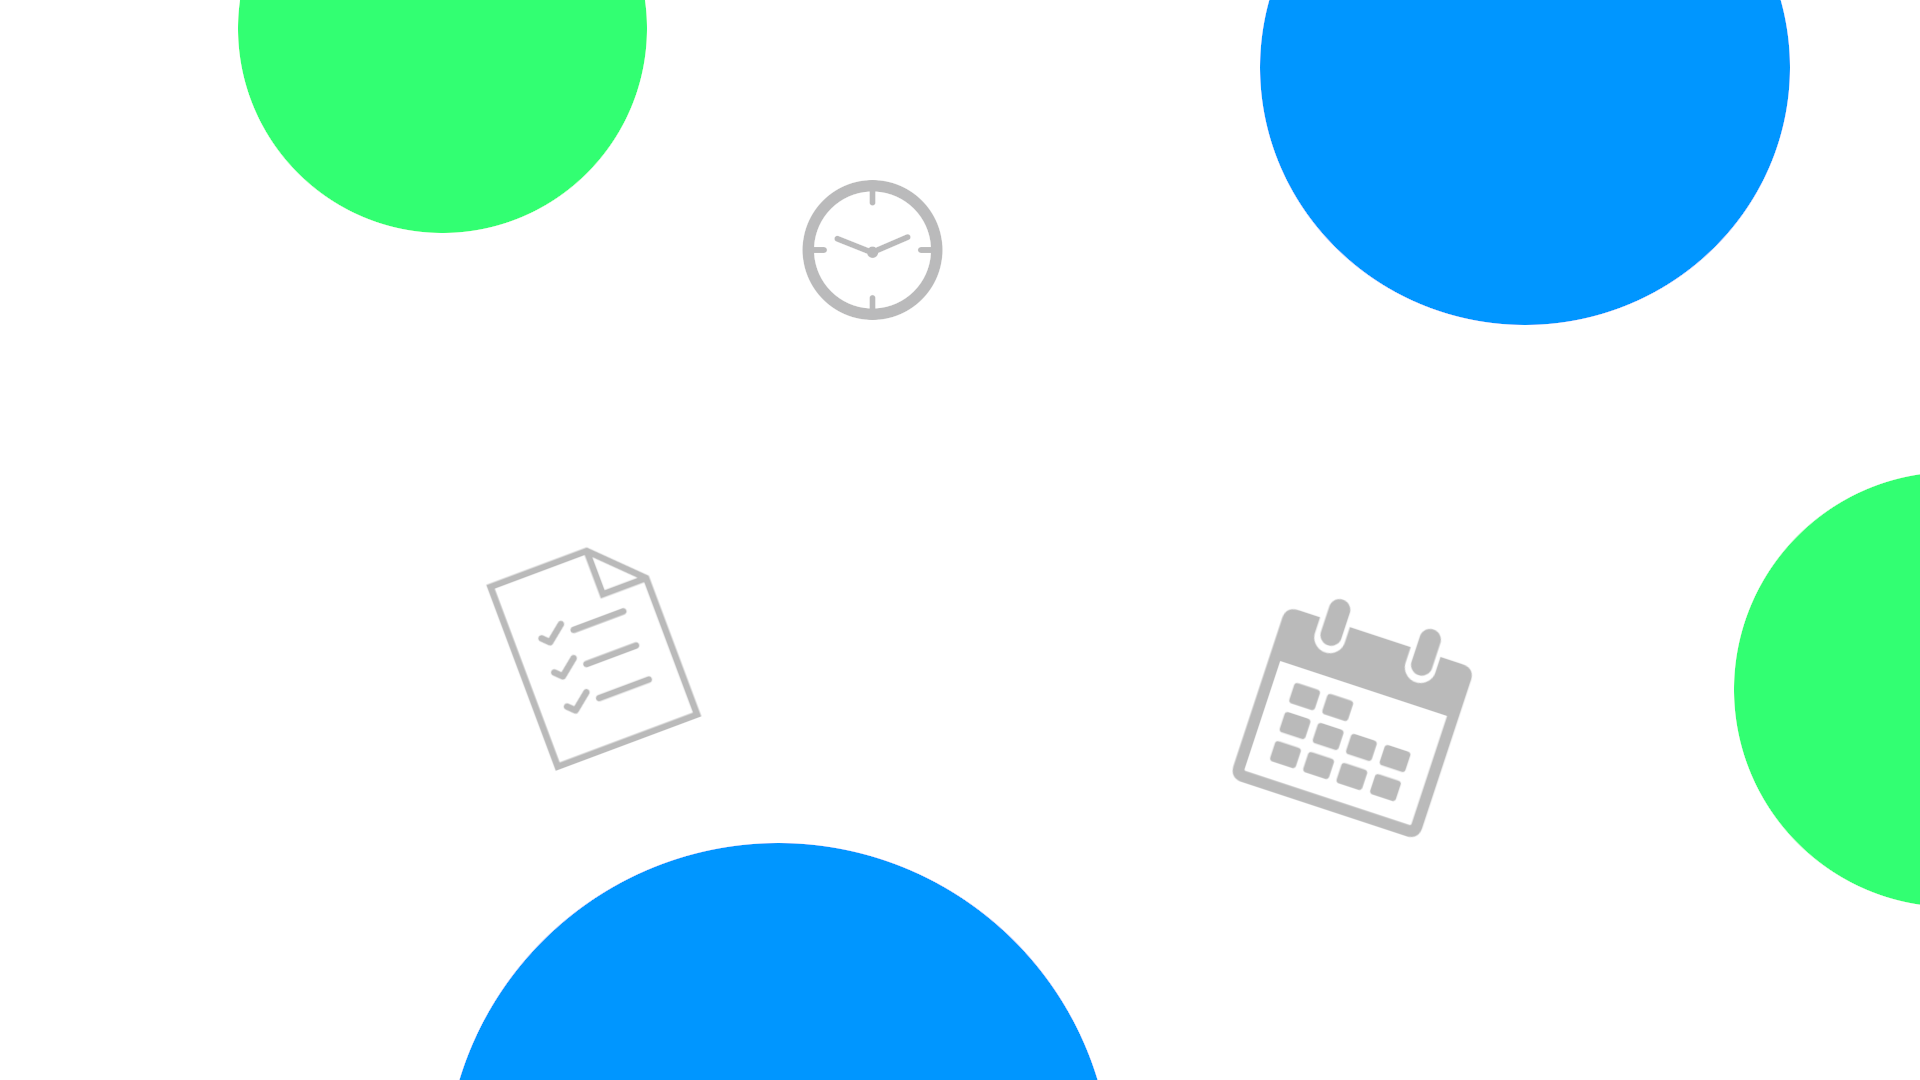
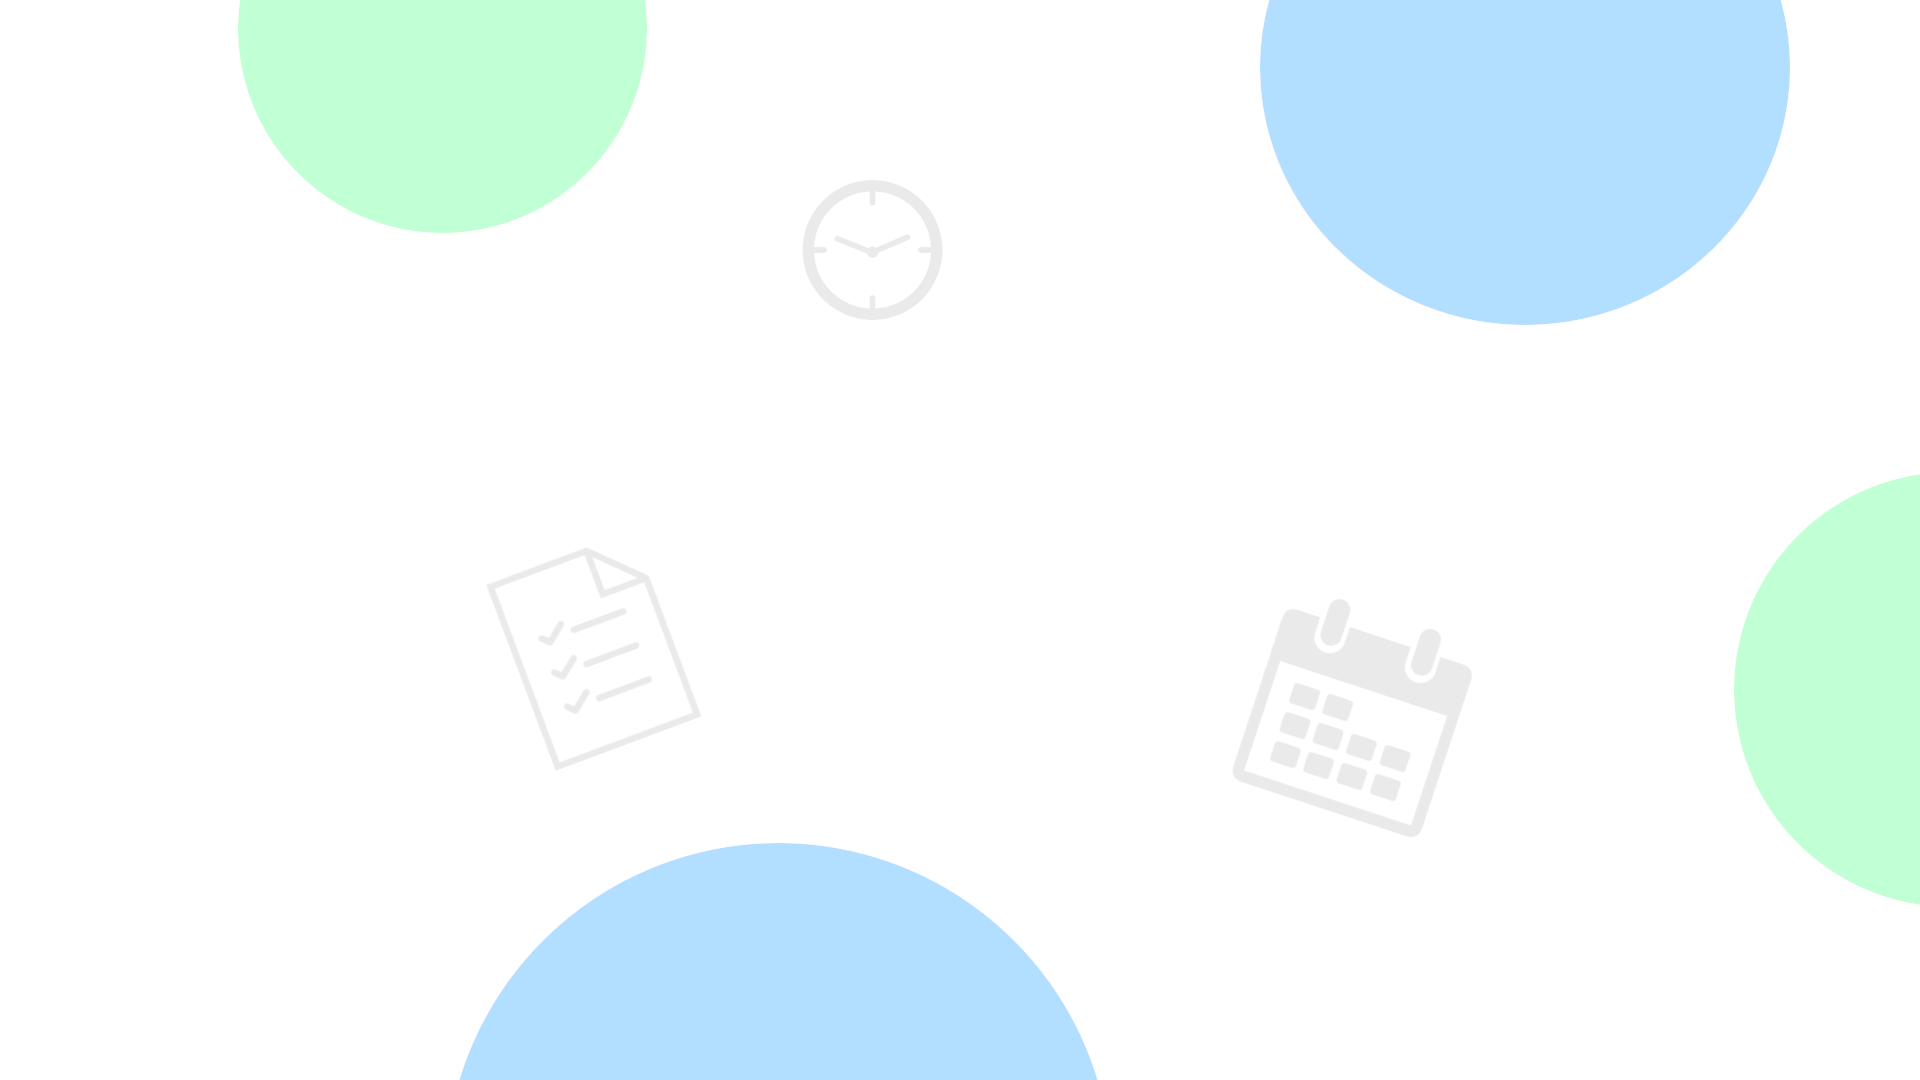
Layout savings

diff --git a/src/app/savings/savings-expenses/savings-expenses.component.html b/src/app/savings/savings-expenses/savings-expenses.component.html
@@ -19,27 +19,36 @@
   <button class="btn btn-primary button-add">Zapisz</button>
 </form>
 
-<div *ngIf="expensesArray.length > 0">
+<div *ngIf="expensesArray.length > 0" style="margin-top:12px">
     <table class="mt-3">
       <tr>
         <th>Wydatek</th>
         <th>Kategoria</th>
         <th>Wartość</th>
-        <th></th>
       </tr>
+    </table>
+  <div class="mt3table">
+    <table class="mt-3">
       <tr *ngFor="let expense of expensesArray">
         <td>{{ expense.expName }}</td>
         <td>{{ expense.expCategory }}</td>
         <td>{{ expense.expAmount }} zł</td>
         <td><a href="javascript:void(0)" (click)="removeExpense(expense.id)">Usuń</a></td>
       </tr>
-      <tr>
-        <td><b>Razem</b></td>
-        <td><b>{{ totalExpenses }} zł</b></td>
-        <td></td>
-      </tr>
     </table>
+  </div>
+  <table>
+    <tr>
+      <td><b>Razem</b></td>
+      <td><b>{{ totalExpenses }} zł</b></td>
+    </tr>
+  </table>
 </div>
-<google-chart [data]="myData" [type]="myType" [columns]="myColumns" [title]="myTitle">
-</google-chart>
+
+<div class="position">
+  <google-chart [data]="myData" [type]="myType" [columns]="myColumns" [title]="myTitle" style="margin-top:12px;">
+  </google-chart>
+</div>
+
+
 

diff --git a/src/app/savings/savings-revenue/savings-revenue.component.html b/src/app/savings/savings-revenue/savings-revenue.component.html
@@ -1,4 +1,4 @@
-<div>
+
   <form [formGroup]="revenueForm">
     <div class="form-block">
       <label>Nazwa</label>
@@ -13,23 +13,26 @@
     <button (click)="addRevenue(revenueForm.value)" class="btn btn-primary button-add">Zapisz</button>
   </form>
 
-  <div *ngIf="revenueArray.length > 0">
-    <table class="mt-3">
+  <div *ngIf="revenueArray.length > 0"  style="margin-top:83px">
+    <table>
       <tr>
         <th>Przychód</th>
         <th>Wartość</th>
-        <th></th>
       </tr>
+    </table>
+  <div class="mt3table">
+    <table class="mt-3">
       <tr *ngFor="let revenue of revenueArray">
         <td>{{ revenue.revName }}</td>
         <td>{{ revenue.revAmount }} zł</td>
         <td><a href="javascript:void(0)" (click)="removeRevenue(revenue.id)">Usuń</a></td>
       </tr>
+    </table>
+  </div>
+    <table>
       <tr>
         <td><b>Razem</b></td>
         <td><b>{{ totalRevenue }} zł</b></td>
-        <td></td>
       </tr>
     </table>
   </div>
-</div>

diff --git a/src/app/savings/savings.component.scss b/src/app/savings/savings.component.scss
@@ -3,15 +3,17 @@
     margin: 0;
     padding: 0;
     width: 100vw;
-    height: 100vh;
+    height: 100%;
     padding-left: 250px;
     display: flex;
-    align-items: center;
+    margin-top: 15px;
     justify-content: center;
   }
   
 .savings-container-content {
     width: 80%;
+    display: flex;
+    justify-content: center;
 }
   
 
@@ -45,7 +47,13 @@ a{
 }
 
 .balance {
-    width: 100%;
+    width: auto;
     text-align: center;
     font-size: 24px;
+    padding-top: 200px!important;
+    background-color: #fff;
+}
+
+.title {
+    margin-bottom: 5px!important;
 }

diff --git a/src/index.html b/src/index.html
@@ -7,18 +7,11 @@
   <meta name="viewport" content="width=device-width, initial-scale=1">
   <link rel="icon" type="image/x-icon" href="favicon.ico">
   <style>
-    .shit-background {
-      position: absolute;
-      top: 0;
-      left: 0;
+    body {
       background: url(assets/images/bg2.png);
       background-attachment: fixed;
       background-repeat: no-repeat;
       background-size: cover;
-      width: 100%;
-      height: 100%;
-      z-index: -1;
-      opacity: 0.3;
     }
   </style>
 </head>

diff --git a/src/app/savings/savings-expenses/savings-expenses.component.scss b/src/app/savings/savings-expenses/savings-expenses.component.scss
@@ -1,0 +1,33 @@
+google-chart {
+    margin: 0!important;
+}
+
+.mt-3 {
+    margin-top: 0!important;
+}
+
+.mt3table {
+    height: auto;
+    max-height: 200px;
+    overflow-y: scroll;
+}
+
+.form-block {
+    margin-bottom: 5px!important;
+}
+
+button {
+    margin-top: 7px;
+}
+
+.position {
+    height: 200px;
+    width: 100%;
+    position: absolute;
+    top: 650px;
+    left: 0;
+    padding-left: 250px;
+    display: flex;
+    justify-content: center;
+    margin-top: 12px;
+}

diff --git a/src/app/savings/savings-revenue/savings-revenue.component.scss b/src/app/savings/savings-revenue/savings-revenue.component.scss
@@ -1,0 +1,17 @@
+.mt-3 {
+    margin-top: 0!important;
+}
+
+.mt3table {
+    height: auto;
+    max-height: 200px;
+    overflow-y: scroll;
+}
+
+.form-block {
+    margin-bottom: 5px!important;
+}
+
+button {
+    margin-top: 7px;
+}

diff --git a/src/styles.scss b/src/styles.scss
@@ -98,3 +98,7 @@ table {
 .error-msg {
   color: #ff4545;
 }
+
+html {
+  overflow-x: hidden;
+}
